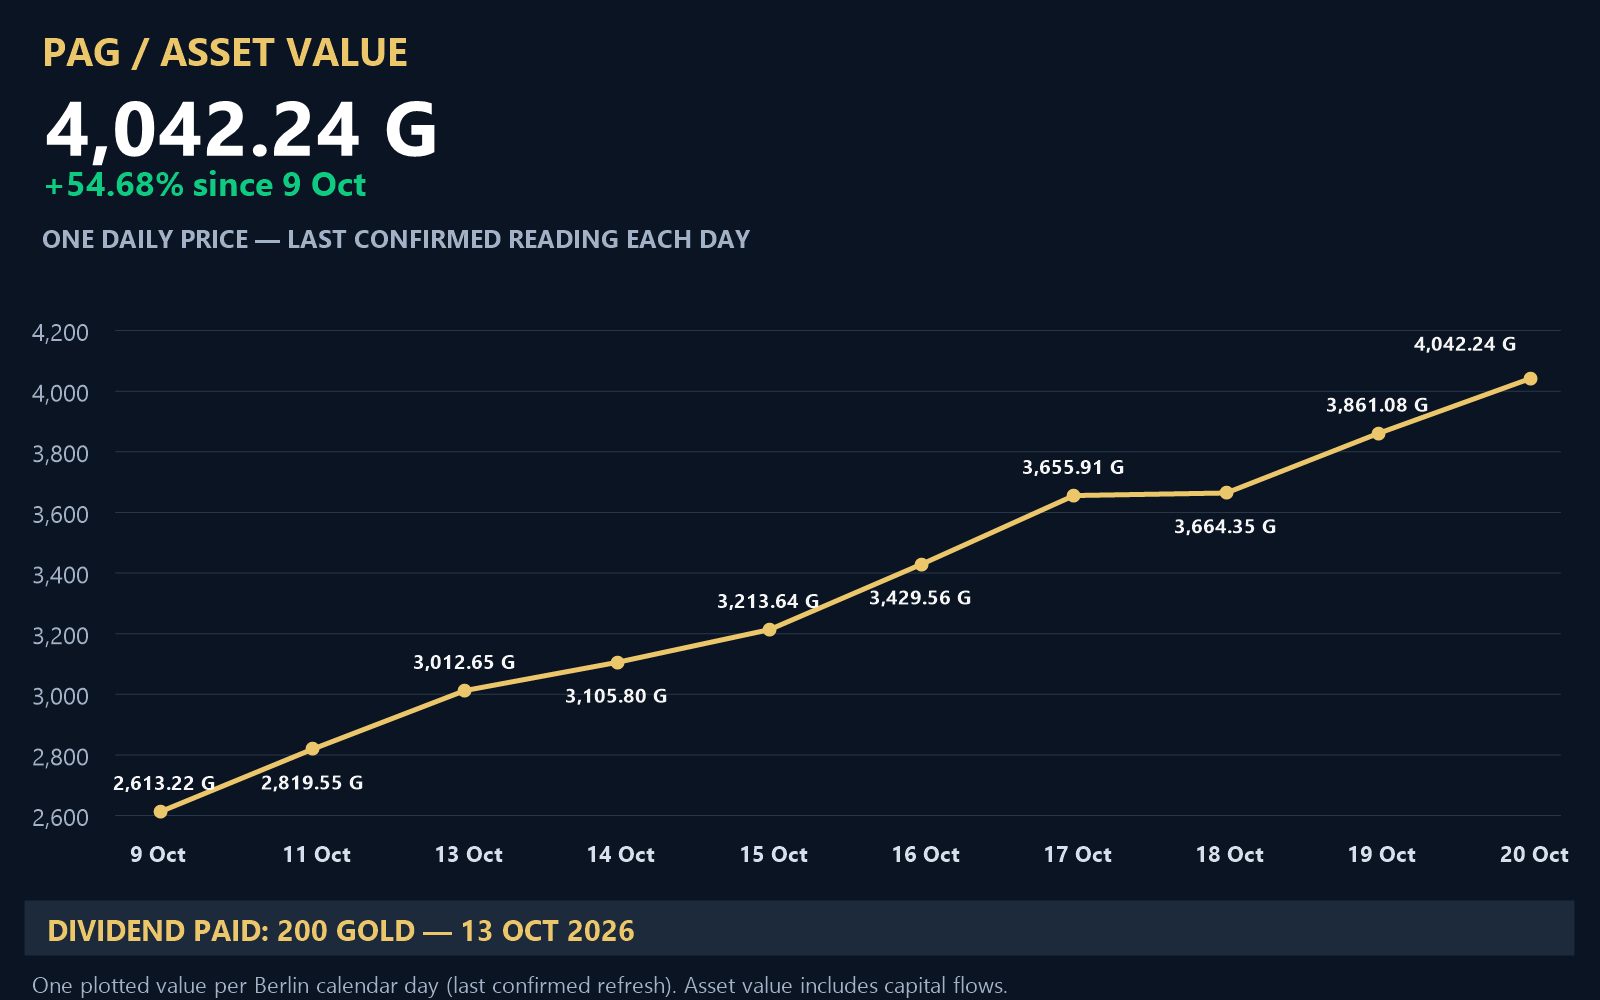
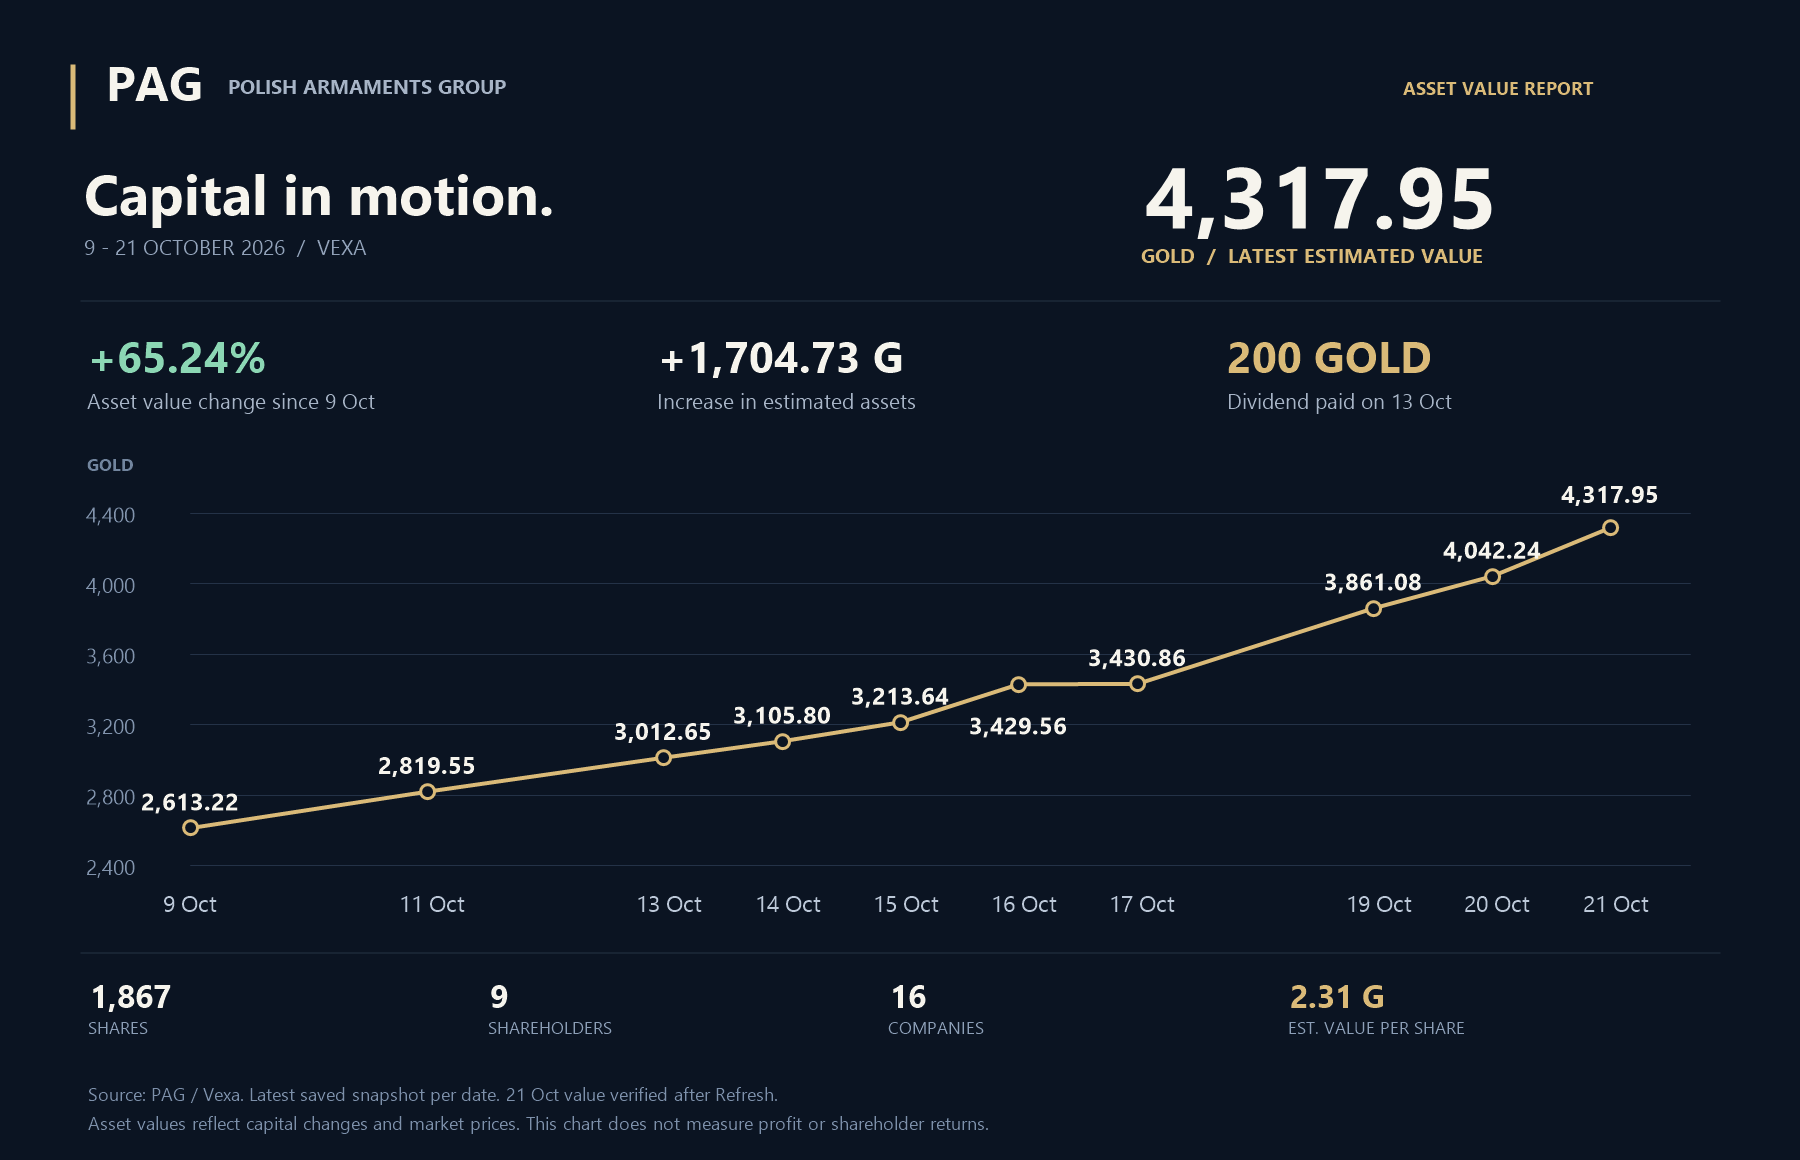
Update PAG chart with 21 Oct report

diff --git a/README.md b/README.md
@@ -1,2 +1,3 @@
-# pag-chart
-Polish Armaments Group — wykres wartości spółki w grze e-Sim Vexa
+# PAG asset value chart
+
+Polish Armaments Group (Vexa). Updated 21 October 2026 after refreshing the company report. Estimated asset value: 4,317.95 Gold. Latest saved snapshot: 1,867 shares, 2.31 Gold per share, 9 shareholders, 16 companies.
